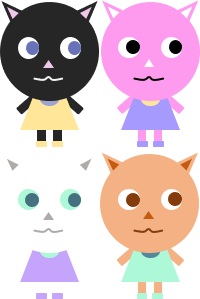
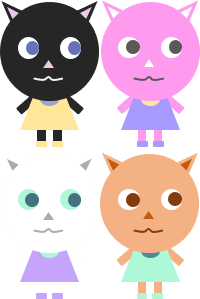
Lesson 12: Color Modulation

Changed region(s): [[0.66, 0.2408, 0.84, 0.2709], [0.84, 0.1204, 0.93, 0.1806], [0.63, 0.1204, 0.72, 0.1806]]

diff --git a/src/TestClipRendering.cpp b/src/TestClipRendering.cpp
@@ -71,14 +71,46 @@ public:
 	void run() {
 		bool quit = false;
 		SDL_Event e;
+		Uint8 r = 255, g = 255, b = 255;
 		while (!quit) {
 			while (SDL_PollEvent(&e) != 0) {
 				if (e.type == SDL_QUIT) {
 					quit = true;
+				} else if (e.type == SDL_KEYDOWN) {
+					switch (e.key.keysym.sym) {
+						case SDLK_q: {
+							r += 15;
+							break;
+						}
+						case SDLK_w: {
+							g += 15;
+							break;
+						}
+						case SDLK_e: {
+							b += 15;
+							break;
+						}
+						case SDLK_r: {
+							r -= 15;
+							break;
+						}
+						case SDLK_t: {
+							g -= 15;
+							break;
+						}
+						case SDLK_y: {
+							b -= 15;
+							break;
+						}
+						default: {
+							break;
+						}
+					}
 				}
 			}
 			SDL_SetRenderDrawColor(renderer, 0x59, 0x59, 0x59, 0xFF);
 			SDL_RenderClear(renderer);
+			spriteSheetTexture.setColor(r, g, b);
 			spriteSheetTexture.render(renderer, 80, 200, &clips[0]);
 			spriteSheetTexture.render(renderer, 200, 200, &clips[1]);
 			spriteSheetTexture.render(renderer, 320, 200, &clips[2]);
@@ -131,6 +163,10 @@ private:
 			}
 			texture = newTexture;
 			return texture != nullptr;
+		}
+
+		void setColor(Uint8 r, Uint8 g, Uint8 b) {
+			SDL_SetTextureColorMod(texture, r, g, b);
 		}
 
 		void free() {
